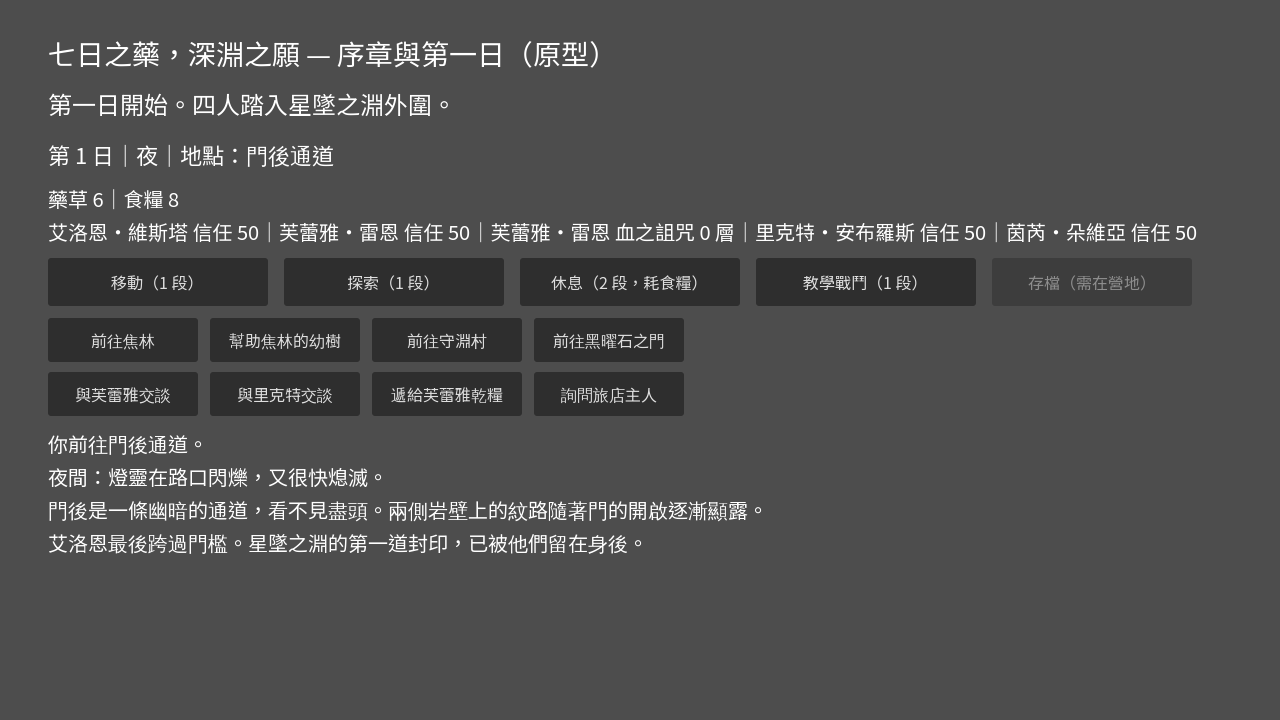
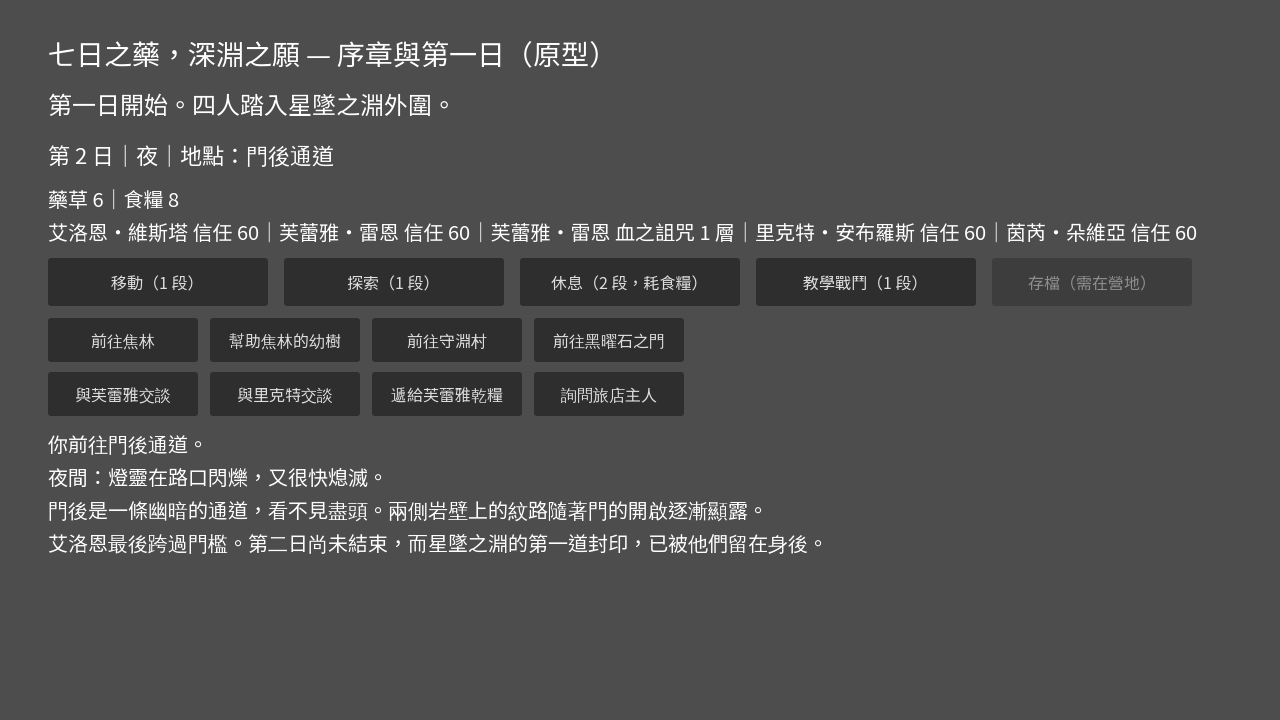
feat: require day two before the Obsidian Gate
The gate is reached on day two, matching the chapter two novel. Entering
earlier is refused without spending time. The passage arrival text returns
to the novel's wording now that the timeline matches.

Story: CHAPTER2_EVENTS day requirement (design/narrative/CHAPTER2_EVENTS.md)

Claude-Session: https://claude.ai/code/session_016KRkTshVoQRFmCjToKscKQ

Changed region(s): [[0.1875, 0.7333, 0.625, 0.7639], [0.5312, 0.3056, 0.5625, 0.3361]]

diff --git a/design/narrative/CHAPTER2_EVENTS.md b/design/narrative/CHAPTER2_EVENTS.md
@@ -25,8 +25,10 @@
 - 行動 `strike:mirror`，只能在黑曜石之門、只有芙蕾雅能攻擊，花 1 個時段，門開後不可用。
 - 效果：芙蕾雅受傷（數值在 `balance.json` 的 `mirror_counter`，目前 8），血之詛咒激化（目前 +2 層）。
 - 不設擊殺分支，不影響承認流程。
-- 門後通道（`go:門後通道`）：門未開啟時無法通行，不花時間也不觸發事件；抵達時觸發 `ch2_passage_arrival`，設定旗標 `passage_entered`。門的需求由 `balance.json` 的 `location_requirements` 指定。
-- 注意：原型目前只到第一日，抵達文字不寫日數。第三日的內容（咒牆迷廊起）尚未實作。
+- 黑曜石之門（`go:黑曜石之門`）：需要第二日已開始（`balance.json` 的 `location_requirements`，`min_day: 2`），與小說的時間線一致。第一日內前往會被拒絕，且不花時間。
+- 門後通道（`go:門後通道`）：門未開啟時無法通行，不花時間也不觸發事件；抵達時觸發 `ch2_passage_arrival`，設定旗標 `passage_entered`，文字取自小說「第二日尚未結束」。
+- 已知風險：若在第二日夜間抵達黑曜石之門，再花一個時段才進入通道，會進入第三日，此時「第二日尚未結束」不成立。需要事件能讀取日數（例如 `day` 條件）後才能修正，目前尚未處理。
+- 第三日的內容（咒牆迷廊起）尚未實作。
 
 ## 三、設定衝突（待確認）
 
